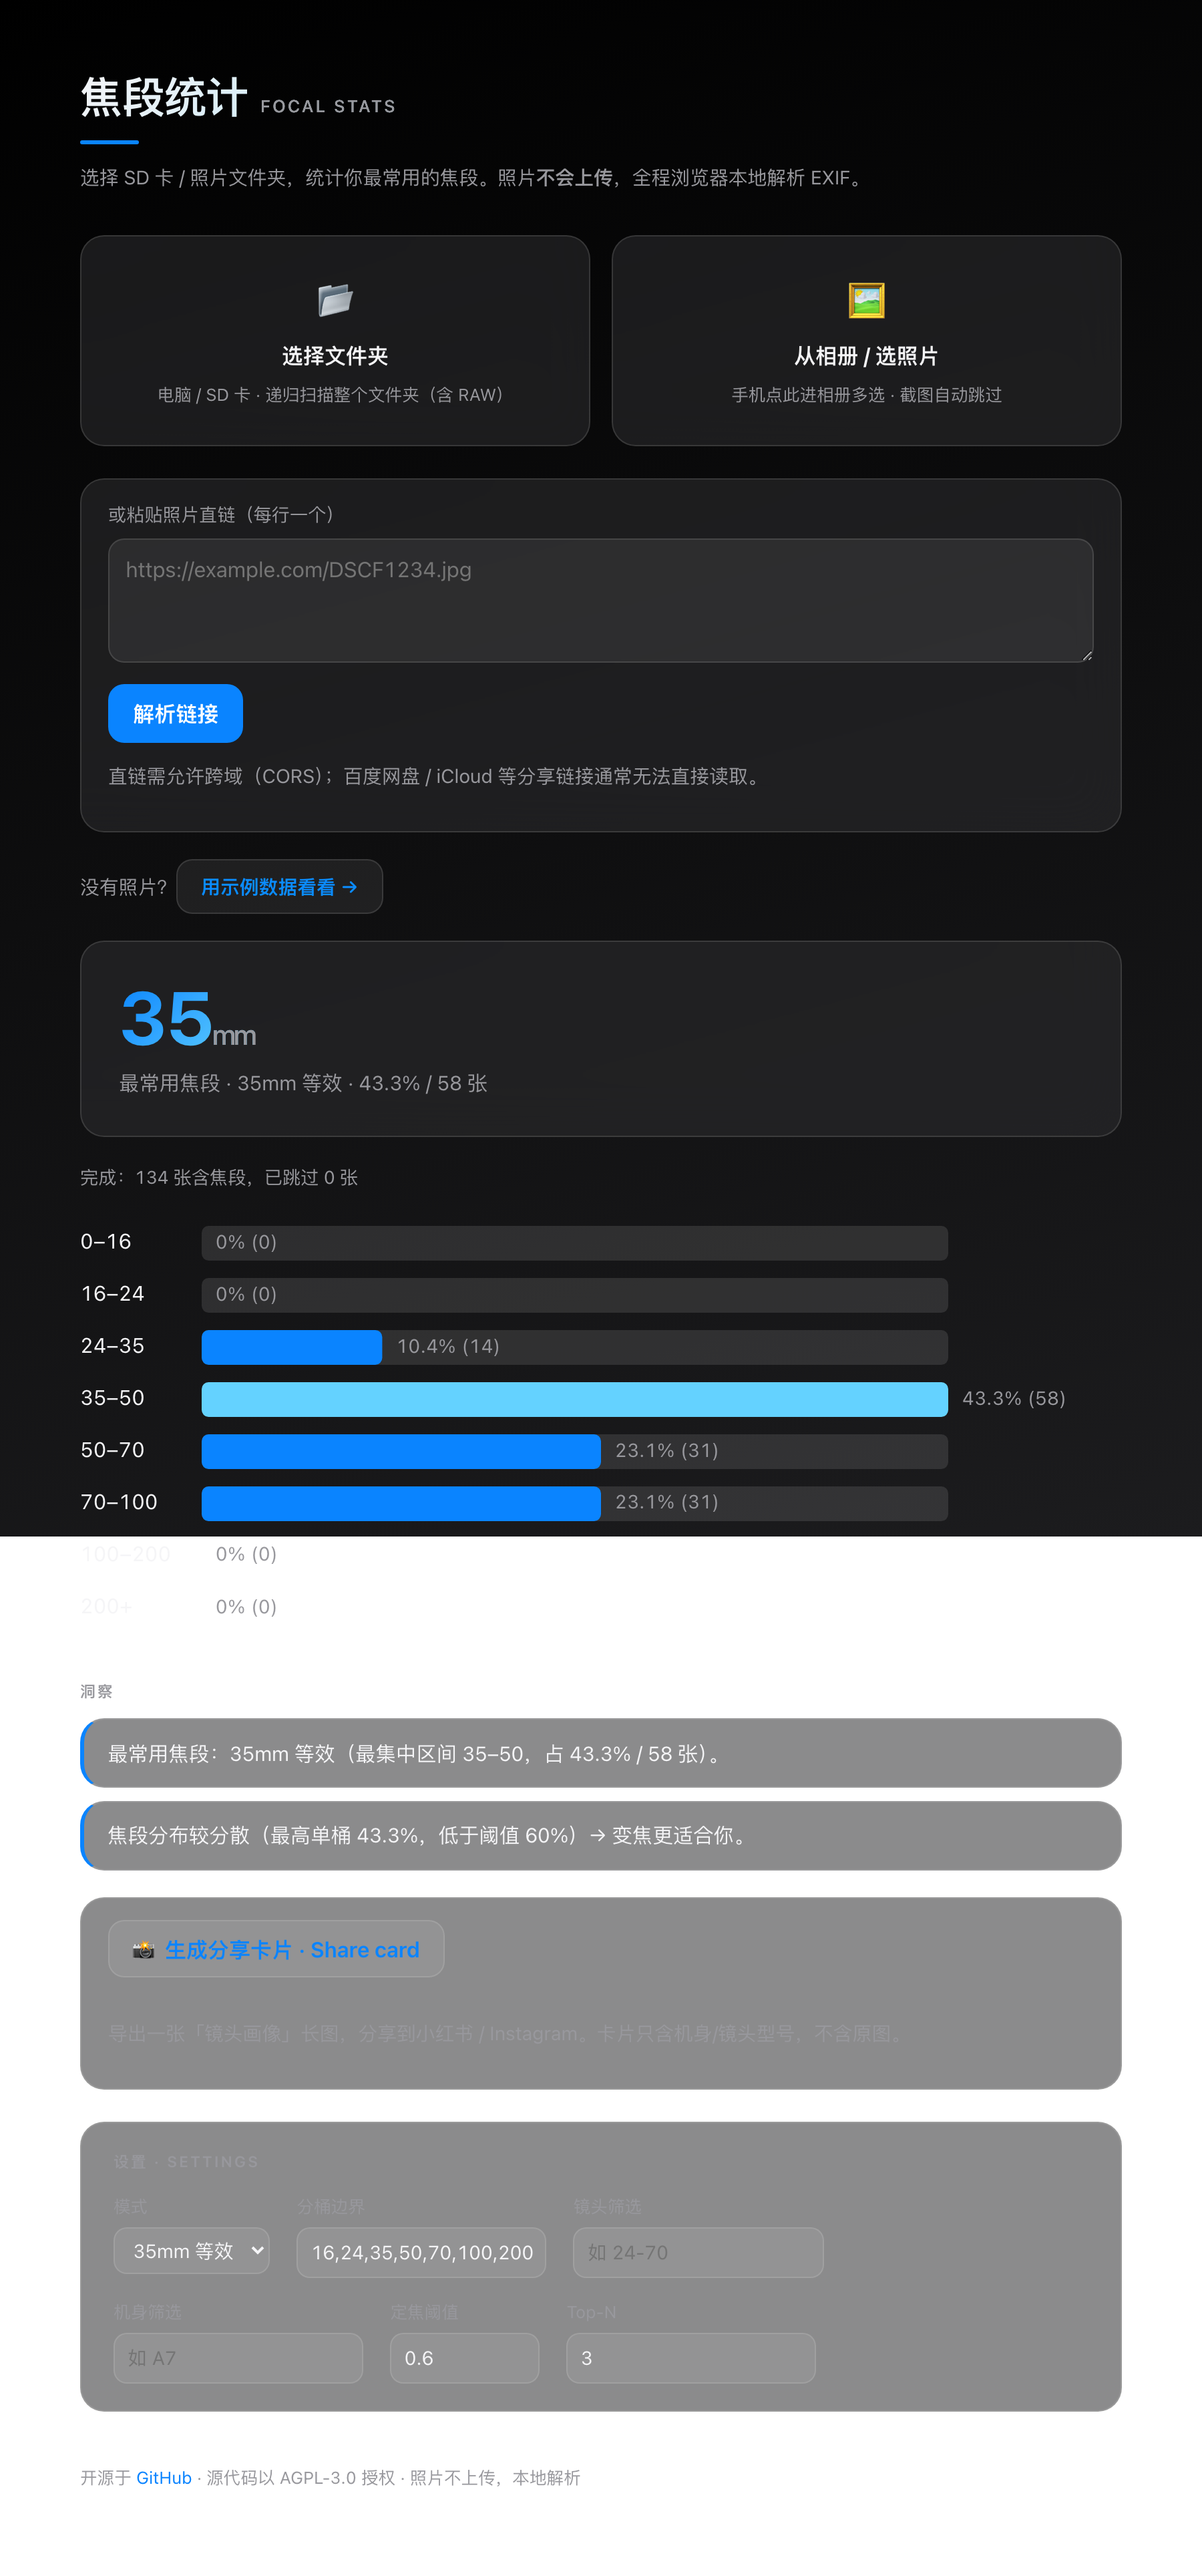
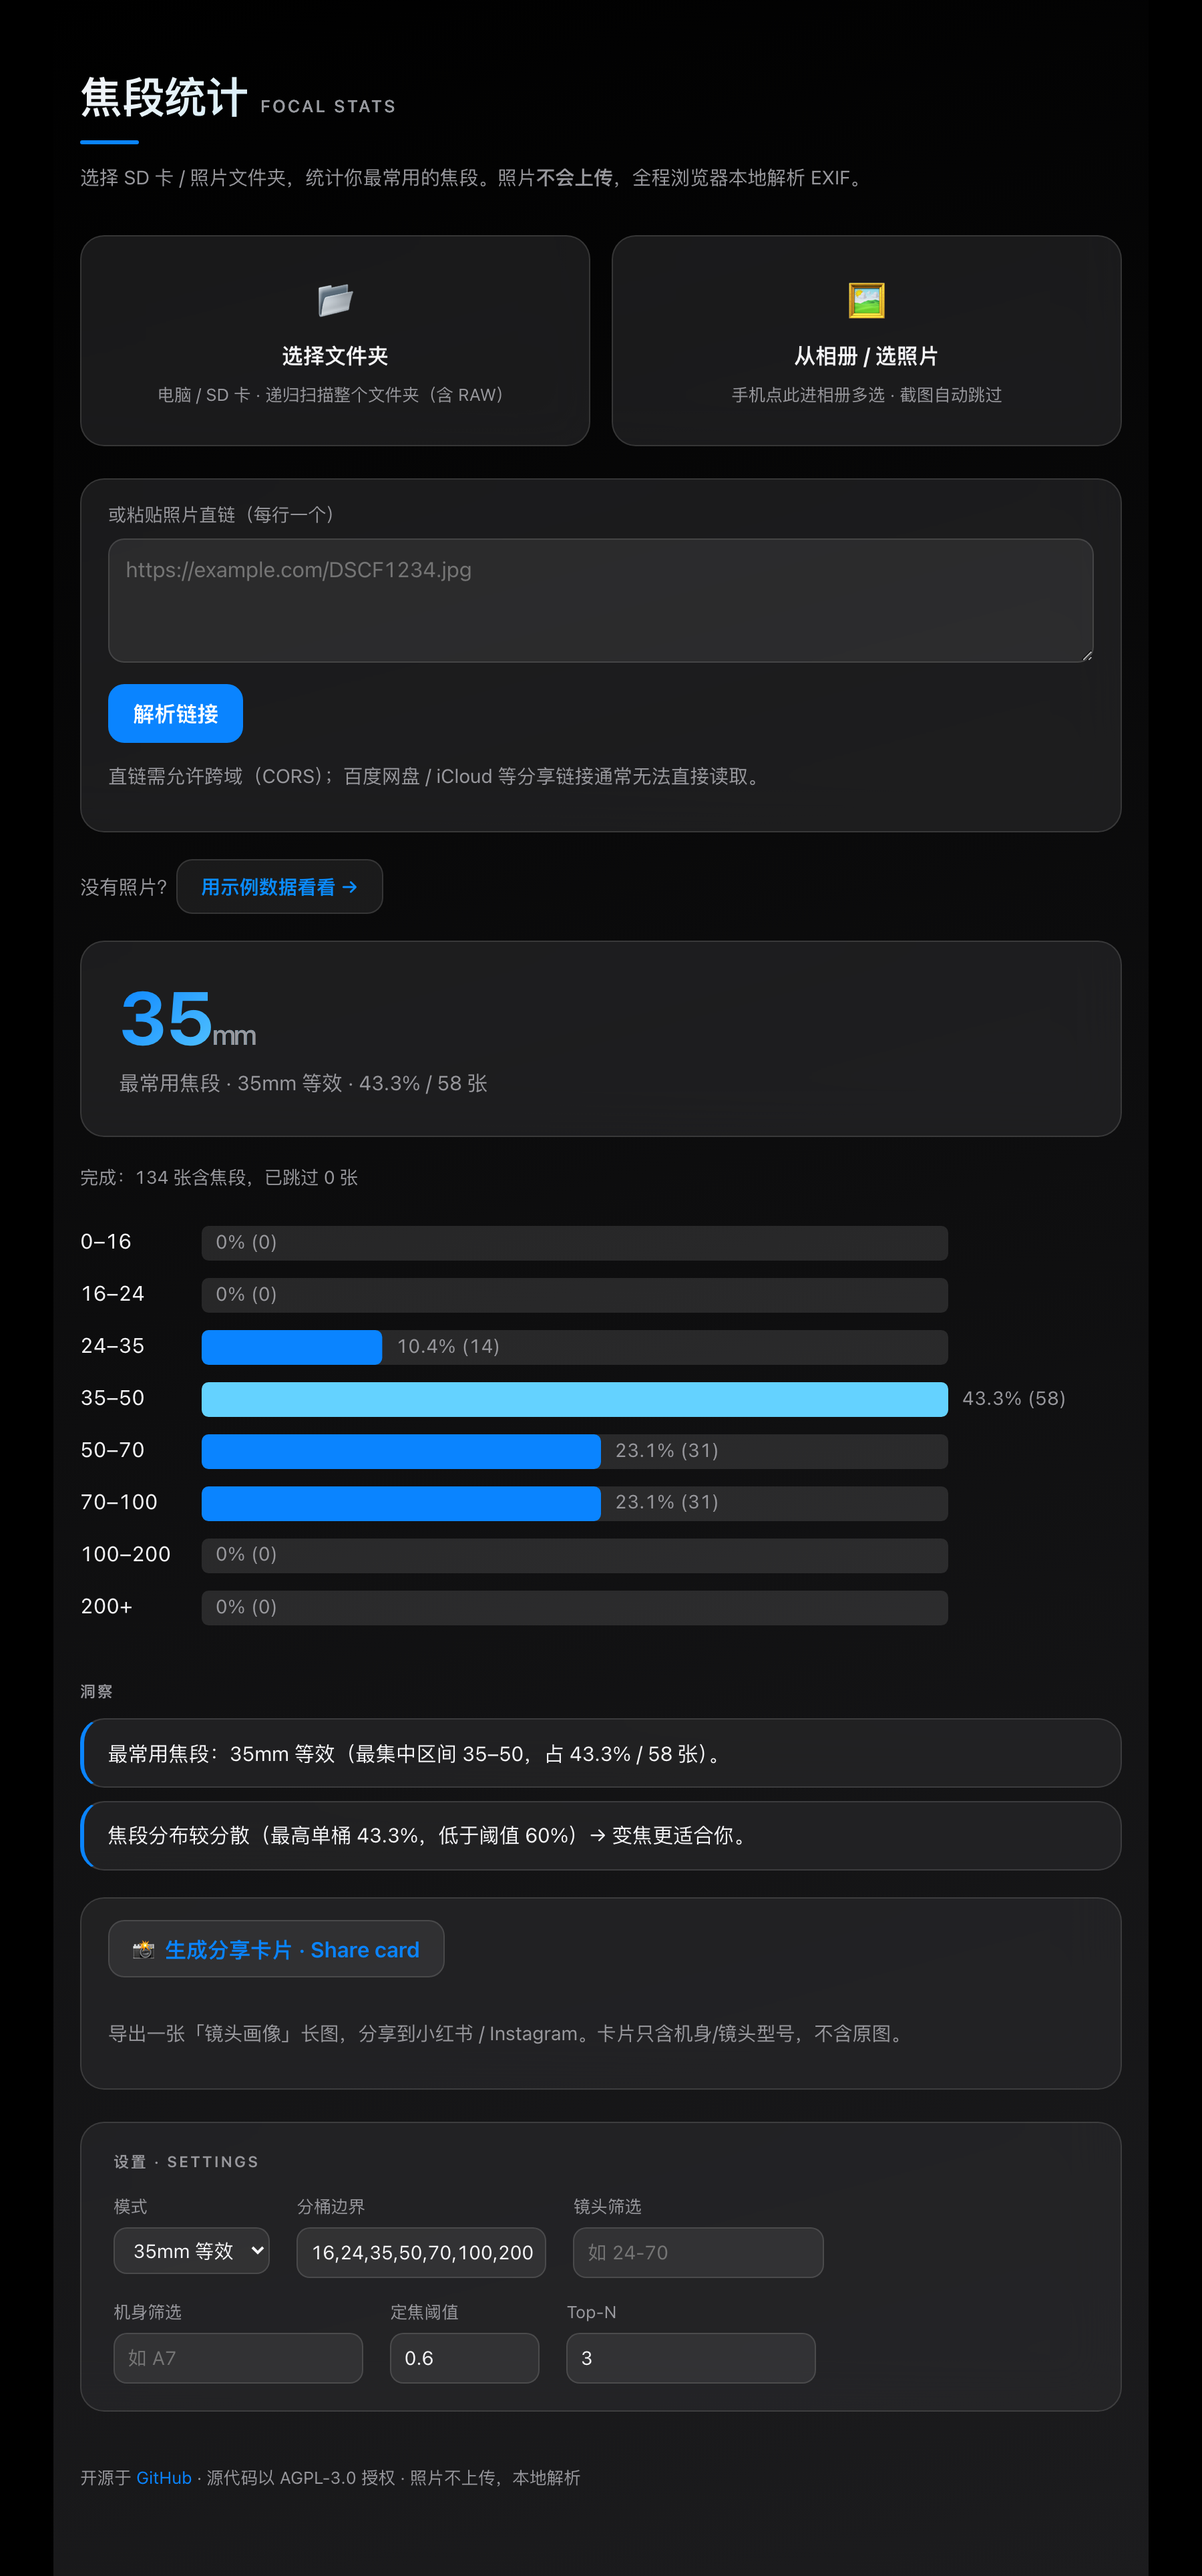
fix(web): dark-mode background covers full page (was white below fold); refresh light/dark screenshots

diff --git a/packages/web/index.html b/packages/web/index.html
@@ -34,11 +34,12 @@
         }
       }
       * { box-sizing: border-box; }
+      html { background: var(--bg1); min-height: 100%; }
       body {
         font-family: -apple-system, BlinkMacSystemFont, "SF Pro Display", "SF Pro Text", system-ui, "PingFang SC", "Microsoft YaHei", sans-serif;
         color: var(--text);
-        background: linear-gradient(165deg, var(--bg1), var(--bg2));
-        background-attachment: fixed; min-height: 100vh;
+        background: linear-gradient(165deg, var(--bg1), var(--bg2)) no-repeat;
+        min-height: 100vh;
         max-width: 820px; margin: 0 auto; padding: 3rem 1.25rem 4rem;
         line-height: 1.5; font-variant-numeric: tabular-nums; -webkit-font-smoothing: antialiased;
       }
